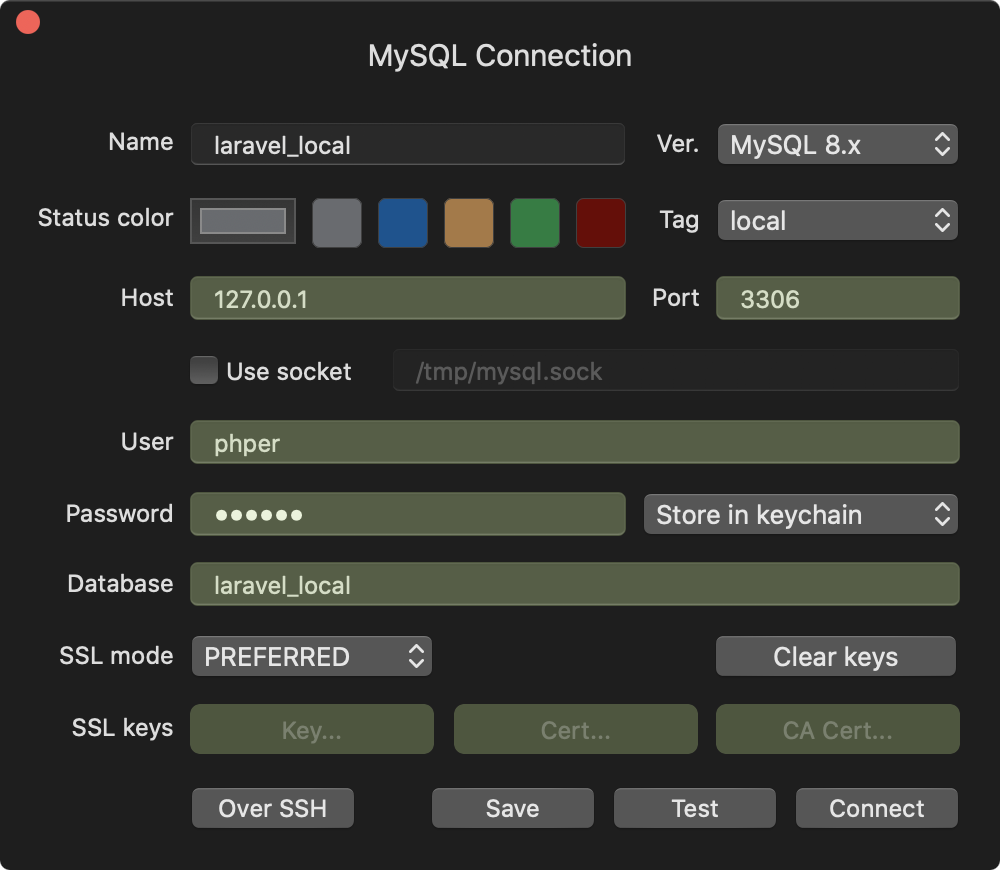
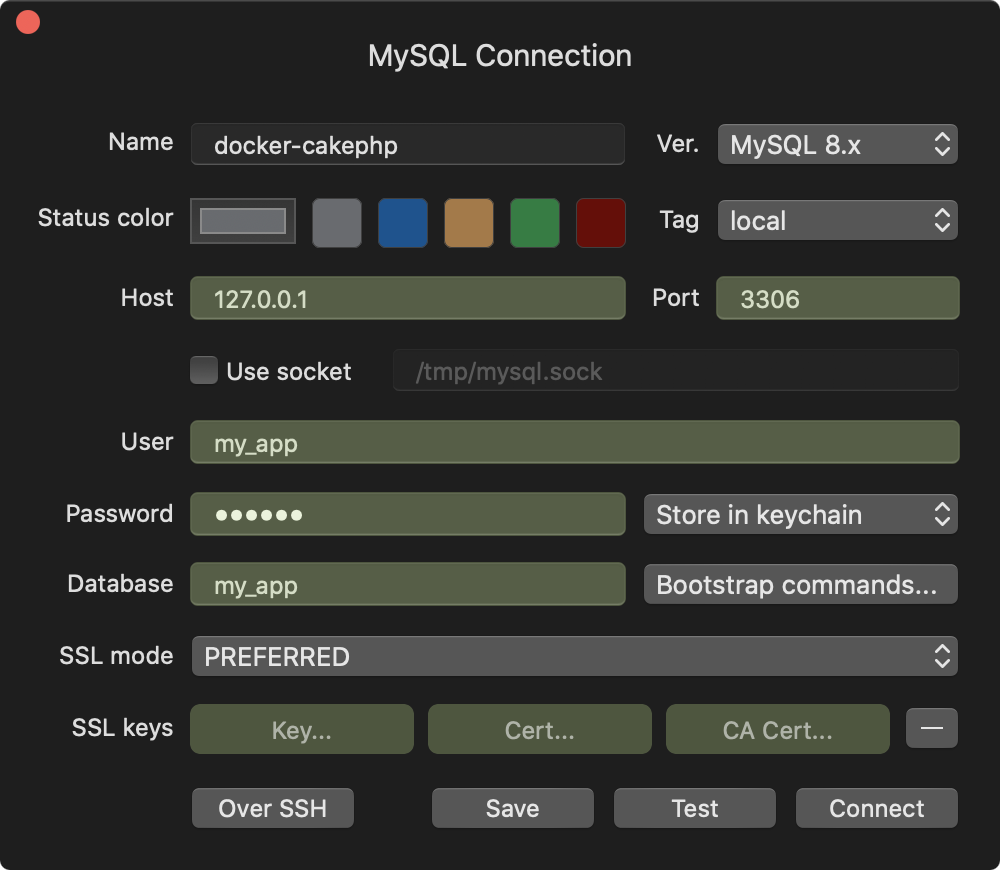
feat laravel to cakephp (#1)

diff --git a/README.md b/README.md
@@ -1,18 +1,18 @@
-# docker-laravel
+# docker-cakephp
 
-![License](https://img.shields.io/github/license/ucan-lab/docker-laravel?color=f05340)
-![Stars](https://img.shields.io/github/stars/ucan-lab/docker-laravel?color=f05340)
-![Issues](https://img.shields.io/github/issues/ucan-lab/docker-laravel?color=f05340)
-![Forks](https://img.shields.io/github/forks/ucan-lab/docker-laravel?color=f05340)
+![License](https://img.shields.io/github/license/ucan-lab/docker-cakephp?color=c92735)
+![Stars](https://img.shields.io/github/stars/ucan-lab/docker-cakephp?color=c92735)
+![Issues](https://img.shields.io/github/issues/ucan-lab/docker-cakephp?color=c92735)
+![Forks](https://img.shields.io/github/forks/ucan-lab/docker-cakephp?color=c92735)
 
 ## Introduction
 
-Build laravel development environment with docker-compose.
+Build cakephp development environment with docker-compose.
 
 ## Usage
 
-- [Build for Mac](https://github.com/ucan-lab/docker-laravel/wiki/Build-for-Mac)
-- [Build for Windows](https://github.com/ucan-lab/docker-laravel/wiki/Build-for-Windows)
+- [Build for Mac](https://github.com/ucan-lab/docker-cakephp/wiki/Build-for-Mac)
+- [Build for Windows](https://github.com/ucan-lab/docker-cakephp/wiki/Build-for-Windows)
 
 ## Container structure
 
